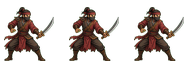
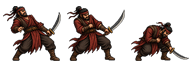
Redo bandit enemy from GPT sheets

diff --git a/tools/cut_task41_bandit_sheet.py b/tools/cut_task41_bandit_sheet.py
@@ -1,0 +1,136 @@
+#!/usr/bin/env python3
+from pathlib import Path
+from PIL import Image
+
+ROOT = Path(__file__).resolve().parents[1]
+IDLE_SRC = ROOT / "assets/source/task41/bandit_idle_sheet_v1.png"
+ANIM_SRC = ROOT / "assets/source/task41/bandit_anim_sheet_v1.png"
+HURT_SRC = ROOT / "assets/source/task41/bandit_hurt_sheet_v1.png"
+OUT_DIR = ROOT / "assets/characters/enemies/bandit"
+
+FRAME_BOXES = {
+    "idle": [
+        (92, 82, 574, 626),
+        (641, 91, 1095, 626),
+        (1164, 91, 1602, 626),
+        (1680, 89, 2128, 626),
+    ],
+    "attack": [
+        (34, 296, 232, 548),
+        (252, 324, 514, 548),
+        (522, 328, 848, 548),
+        (829, 324, 1100, 548),
+        (1068, 320, 1326, 548),
+        (1307, 316, 1522, 548),
+    ],
+    "hurt": [
+        (205, 112, 732, 620),
+        (869, 117, 1394, 620),
+        (1463, 221, 2032, 620),
+    ],
+    "death": [
+        (53, 824, 333, 982),
+        (338, 868, 647, 984),
+        (642, 886, 994, 986),
+        (999, 884, 1366, 990),
+    ],
+}
+
+
+def white_to_alpha(im):
+    im = im.convert("RGBA")
+    px = im.load()
+    for y in range(im.height):
+        for x in range(im.width):
+            r, g, b, a = px[x, y]
+            dist = max(0, 255 - min(r, g, b))
+            if r > 238 and g > 238 and b > 238:
+                px[x, y] = (r, g, b, 0)
+            elif r > 220 and g > 220 and b > 220:
+                px[x, y] = (r, g, b, min(a, dist * 7))
+    return im
+
+
+def remove_small_fragments(im, min_area=20):
+    alpha = im.getchannel("A")
+    w, h = im.size
+    pix = alpha.load()
+    seen = set()
+    comps = []
+    for y in range(h):
+        for x in range(w):
+            if pix[x, y] <= 8 or (x, y) in seen:
+                continue
+            stack = [(x, y)]
+            seen.add((x, y))
+            pts = []
+            while stack:
+                px, py = stack.pop()
+                pts.append((px, py))
+                for nx in (px - 1, px, px + 1):
+                    for ny in (py - 1, py, py + 1):
+                        if nx < 0 or ny < 0 or nx >= w or ny >= h or (nx, ny) in seen:
+                            continue
+                        if pix[nx, ny] > 8:
+                            seen.add((nx, ny))
+                            stack.append((nx, ny))
+            comps.append(pts)
+    keep = set()
+    for pts in comps:
+        if len(pts) >= min_area:
+            keep.update(pts)
+    out = Image.new("RGBA", im.size, (0, 0, 0, 0))
+    src = im.load()
+    dst = out.load()
+    for x, y in keep:
+        dst[x, y] = src[x, y]
+    return out
+
+
+def strip_edge_alpha(im):
+    px = im.load()
+    w, h = im.size
+    for x in range(w):
+        px[x, 0] = px[x, 0][:3] + (0,)
+        px[x, h - 1] = px[x, h - 1][:3] + (0,)
+    for y in range(h):
+        px[0, y] = px[0, y][:3] + (0,)
+        px[w - 1, y] = px[w - 1, y][:3] + (0,)
+    return im
+
+
+def fit_frame(crop, size=64, pad=3):
+    crop = remove_small_fragments(white_to_alpha(crop))
+    bbox = crop.getchannel("A").getbbox()
+    out = Image.new("RGBA", (size, size), (0, 0, 0, 0))
+    if not bbox:
+        return out
+    spr = crop.crop(bbox)
+    scale = min((size - pad * 2) / spr.width, (size - pad * 2) / spr.height)
+    nw = max(1, int(spr.width * scale))
+    nh = max(1, int(spr.height * scale))
+    spr = spr.resize((nw, nh), Image.Resampling.LANCZOS)
+    out.alpha_composite(spr, ((size - nw) // 2, size - pad - nh))
+    return strip_edge_alpha(remove_small_fragments(out))
+
+
+def join(frames):
+    out = Image.new("RGBA", (64 * len(frames), 64), (0, 0, 0, 0))
+    for i, fr in enumerate(frames):
+        out.alpha_composite(fr, (i * 64, 0))
+    return out
+
+
+def main():
+    idle_sheet = Image.open(IDLE_SRC).convert("RGBA")
+    anim_sheet = Image.open(ANIM_SRC).convert("RGBA")
+    hurt_sheet = Image.open(HURT_SRC).convert("RGBA")
+    OUT_DIR.mkdir(parents=True, exist_ok=True)
+    for anim, boxes in FRAME_BOXES.items():
+        src = idle_sheet if anim == "idle" else (hurt_sheet if anim == "hurt" else anim_sheet)
+        frames = [fit_frame(src.crop(box)) for box in boxes]
+        join(frames).save(OUT_DIR / f"{anim}.png")
+
+
+if __name__ == "__main__":
+    main()
